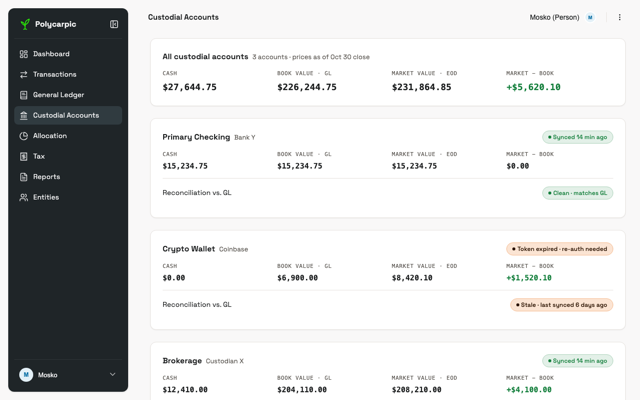
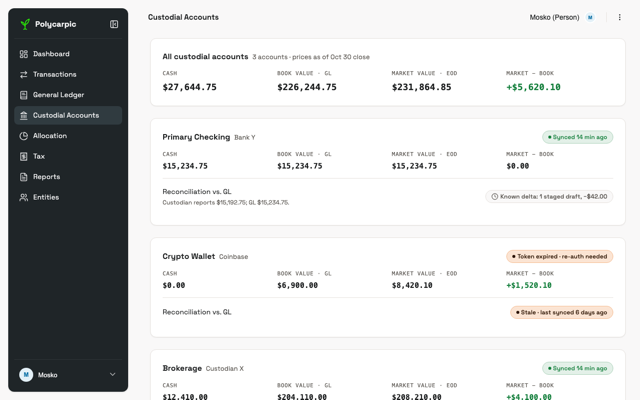
design(flows-refine): tax tier ruling and labels; known unposted delta drawn
Tax tiers: danger = gap ≥ 0 and due within 14 days or passed; caution =
gap ≥ 0 and due more than 14 days out; on track = gap < 0 (flow 5.4,
flows/tax-liability-flow.md, spec status tiers, tax.html note). Edge
labels use ≥ and words, since Mermaid strips '>' from edge labels.
Custodial Accounts draws the known-unposted-delta state on Primary
Checking: a muted Known delta badge linking to Pending, the custodian's
figure on the reconciliation line; the Cash figure is the GL's.

Claude-Session: https://claude.ai/code/session_01ShccjGpngWMgusX4atqtRi

diff --git a/docs/DESIGN/styled-screens/custodial-accounts.html b/docs/DESIGN/styled-screens/custodial-accounts.html
@@ -8,7 +8,7 @@
 <link rel="stylesheet" href="../screen.css">
 </head>
 <body>
-<!-- Custodial Accounts. A totals card, then one card per physical account. Every card shows the same three figures side by side: cash balance, book value (the GL's cost basis, cash included) and market value (cash + positions at EOD prices), then market minus book; the totals card sums them across accounts. Then link health (caution tier for an expired or stale link that still has cached data), reconciliation vs. GL, and for a brokerage the lots sub-card (Collapsible, one security pulled down). Sync pulls balances AND positions. The provider-item Dialog (More > New provider item) is shown open below the cards as the reference, same convention as the journal-entry modal. Viewers see no Sync / New / token-refresh / unlink actions. -->
+<!-- Custodial Accounts. A totals card, then one card per physical account. Every card shows the same three figures side by side: cash balance, book value (the GL's cost basis, cash included) and market value (cash + positions at EOD prices), then market minus book; the totals card sums them across accounts. Then link health (caution tier for an expired or stale link that still has cached data), reconciliation vs. GL (Primary Checking shows a known unposted delta: the custodian is $42.00 below the GL by exactly one staged draft, a muted badge linking to Pending, not a break), and for a brokerage the lots sub-card (Collapsible, one security pulled down). Sync pulls balances AND positions. The provider-item Dialog (More > New provider item) is shown open below the cards as the reference, same convention as the journal-entry modal. Viewers see no Sync / New / token-refresh / unlink actions. -->
 <div class="shell">
   <aside class="sidebar" id="app-sidebar">
     <!-- Brand row (pass 12, Gemini pattern): expanded = logo + wordmark,
@@ -80,7 +80,7 @@
         <div class="custodial-fig"><span class="eyebrow">Market − book</span><span class="custodial-fig-value">$0.00</span></div>
       </div>
       <div class="custodial-recon">
-        <div class="kv-row"><span>Reconciliation vs. GL</span><span class="kv-value"><span class="badge badge-positive-soft"><span class="status-dot"></span>Clean · matches GL</span></span></div>
+        <div class="kv-row"><span class="kv-label">Reconciliation vs. GL<span class="kv-help">Custodian reports $15,192.75; GL $15,234.75.</span></span><span class="kv-value"><a class="badge badge-muted" href="transactions.html" title="Open the staged draft in Pending"><span class="icon icon-sm"><svg viewBox="0 0 24 24" fill="none" stroke="currentColor" stroke-width="2" stroke-linecap="round" stroke-linejoin="round" aria-hidden="true"><circle cx="12" cy="12" r="10"/><polyline points="12 6 12 12 16 14"/></svg></span>Known delta: 1 staged draft, −$42.00</a></span></div>
       </div>
     </div>
     <div class="card">

diff --git a/docs/DESIGN/index.html b/docs/DESIGN/index.html
@@ -297,8 +297,8 @@ flowchart TD
   pending --> display[Display gauge + figures]
   gap --> tier{Gap status}
   tier -- "gap &lt; 0" --> onTrack[Tier: Normal / on track\nprepaid ahead of safe harbor\npositive token]
-  tier -- "gap >= 0, due date > 14d out" --> caution[Tier: Caution\nwarning token]
-  tier -- "gap >= 0, due date passed" --> danger[Tier: Danger / overdue\ndestructive token]
+  tier -- "gap ≥ 0, due more than 14 days out" --> caution[Tier: Caution\nwarning token]
+  tier -- "gap ≥ 0, due within 14 days or passed" --> danger[Tier: Danger\ndestructive token]
   onTrack --> display
   caution --> display
   danger --> display
@@ -312,7 +312,7 @@ flowchart TD
   </pre>
   <ul>
     <li><strong>Reached from the sidebar or the Dashboard card;</strong> both land on the same per-entity view with a jurisdiction selector.</li>
-    <li><strong>Tiers:</strong> on track when <code>gap &lt; 0</code> (prepaid ahead of the safe-harbor requirement); caution when <code>gap &gt;= 0</code> and the due date is more than 14 days out; danger when <code>gap &gt;= 0</code> and the due date has passed. They reuse the product-wide status vocabulary — design-system-spec.md § Status tiers.</li>
+    <li><strong>Tiers:</strong> on track when <code>gap &lt; 0</code> (prepaid ahead of the safe-harbor requirement); caution when <code>gap ≥ 0</code> and the due date is more than 14 days out; danger when <code>gap ≥ 0</code> and the due date is within 14 days or has passed. They reuse the product-wide status vocabulary — design-system-spec.md § Status tiers.</li>
     <li><strong>Gap = 0 is not on track.</strong> It means exactly at the safe-harbor line, with nothing in hand beyond the requirement, so it takes the caution or danger tier by due date.</li>
     <li><strong>Two figures,</strong> both measured against the custodial account's balance but not against each other: <strong>Pending liability = annualized tax to date − custodial prepaid balance</strong> (what you would owe net of prepayments, if filed today); <strong>Gap = required payments to date (safe harbor) − custodial balance</strong> ("are you current with the authority"). Gap is never <code>required − pending</code>.</li>
     <li><strong>v1 never moves money.</strong> There is no pay button: the user pays the tax authority at their own bank; the payment lands as an imported transaction with no counterparty; the user posts the GL entry, debiting the custodial tax-authority account (a prepaid-tax asset). Copy says "post your payment" or "record your payment", never "pay" or "transfer".</li>

diff --git a/docs/DESIGN/styled-screens/tax.html b/docs/DESIGN/styled-screens/tax.html
@@ -8,7 +8,7 @@
 <link rel="stylesheet" href="../screen.css">
 </head>
 <body>
-<!-- Tax. Per entity, per jurisdiction (tabs are data-driven: one per jurisdiction the entity files in). Two figures that are never combined: Pending liability = annualized tax to date - custodial prepaid balance (what you would owe, net of prepayments, if you filed today); Gap = required safe-harbor payments to date - custodial prepaid balance (are you current with the authority). The tier follows the gap: on track gap < 0; caution gap >= 0 with the due date more than 14 days out; danger gap >= 0 with the due date passed (flow 5.4). Shown: Federal 2026 on Nov 2, 2026, with the Sep 15 installment $200 short, so the danger tier. The prepaid balance is the GL account Prepaid Tax - Federal ($3,100.00, same as the General Ledger tree) and links to its register. The app never moves money: the action is "Post your payment" (from the imported bank transaction on Transactions), never "Pay". Reached from the sidebar Tax item or the Dashboard tax card. -->
+<!-- Tax. Per entity, per jurisdiction (tabs are data-driven: one per jurisdiction the entity files in). Two figures that are never combined: Pending liability = annualized tax to date - custodial prepaid balance (what you would owe, net of prepayments, if you filed today); Gap = required safe-harbor payments to date - custodial prepaid balance (are you current with the authority). The tier follows the gap: on track gap < 0; caution gap >= 0 with the due date more than 14 days out; danger gap >= 0 with the due date within 14 days or passed (flow 5.4). Shown: Federal 2026 on Nov 2, 2026, with the Sep 15 installment $200 short, so the danger tier. The prepaid balance is the GL account Prepaid Tax - Federal ($3,100.00, same as the General Ledger tree) and links to its register. The app never moves money: the action is "Post your payment" (from the imported bank transaction on Transactions), never "Pay". Reached from the sidebar Tax item or the Dashboard tax card. -->
 <div class="shell">
   <aside class="sidebar" id="app-sidebar">
     <!-- Brand row (pass 12, Gemini pattern): expanded = logo + wordmark,

diff --git a/docs/DESIGN/screen.css b/docs/DESIGN/screen.css
@@ -1612,3 +1612,9 @@ table.data-table tr.opening td { color: var(--muted-foreground); font-style: ita
 /* A card eyebrow that links to the card's own screen (Dashboard tax card -> Tax). */
 .eyebrow.card-link { display: inline-flex; gap: 6px; color: inherit; text-decoration: none; }
 .eyebrow.card-link:hover, .eyebrow.card-link:focus-visible { color: var(--foreground); text-decoration: underline; }
+
+/* Known unposted delta (Custodial Accounts reconciliation): information,
+   not a status tier. Muted fill, clock icon, and it is a link to the
+   staged drafts in Pending. */
+.badge-muted { background: var(--muted); color: var(--muted-foreground); border-color: var(--border); text-decoration: none; }
+a.badge-muted:hover, a.badge-muted:focus-visible { color: var(--foreground); }

diff --git a/docs/DESIGN/design-system-spec.md b/docs/DESIGN/design-system-spec.md
@@ -357,8 +357,8 @@ There is no "Securities" item (lots live in Custodial Accounts' sub-card; alloca
 | Tier | Token | Product examples |
 |---|---|---|
 | Normal / on track | `--positive` or plain `--foreground` | Safe-harbor gap < 0 (prepaid ahead of the requirement); reconciliation clean; import fully matched |
-| Caution | `--warning` | Safe-harbor gap ≥ 0, due date >14 days out (gap = 0 is exactly at the safe-harbor line, nothing in hand beyond it, so never on track); an unmatched transfer leg aged inside the Cash-in-Transit exceptions window; a stale/expired provider link that still has cached data to show |
-| Danger / overdue | `--destructive` | Safe-harbor gap ≥ 0 with the due date passed; exceptions-threshold breach; reconciliation break |
+| Caution | `--warning` | Safe-harbor gap ≥ 0, due date more than 14 days out (gap = 0 is exactly at the safe-harbor line, nothing in hand beyond it, so never on track); an unmatched transfer leg aged inside the Cash-in-Transit exceptions window; a stale/expired provider link that still has cached data to show |
+| Danger / overdue | `--destructive` | Safe-harbor gap ≥ 0 with the due date within 14 days or passed; exceptions-threshold breach; reconciliation break |
 
 ### Entity, account, and category badges — label + icon, not per-category hue
 
@@ -459,14 +459,14 @@ A nested treemap of the chart of accounts, prototyped as a card above the tree o
 
 | Figure | What it is | Source |
 |---|---|---|
-| **Cash** | The account's cash balance (a brokerage's sweep cash; the whole balance of a bank account) | Custodian-reported, reconciled to the GL |
+| **Cash** | The account's cash balance (a brokerage's sweep cash; the whole balance of a bank account) | The GL's cash balance; when the custodian reports a different figure, the reconciliation line shows it |
 | **Book value · GL** | Cost basis of everything in the account, cash included — the GL's own balance for the mirrored account | General Ledger (lots at cost) |
 | **Market value · EOD** | Cash plus every position at the last end-of-day price | Lots × daily EOD price feed |
 | **Market − book** | Unrealized gain or loss, signed and coloured per § Delta coloring | Derived |
 
 A cash-only account shows the same row with the three figures equal and a `$0.00` delta: the row keeps one shape on every card, so accounts scan as a column. A **totals card** above the account cards sums the same four figures across every custodial account for the entity, with the price date ("prices as of <date> close"). Market − book on an account equals its lots sub-card's total unrealized gain; the two figures must agree.
 
-**Per-account card:** institution name, link-health badge, the three-figure row, and a reconciliation line against the GL (clean / stale / break, per the status tiers — the danger tier surfaces on the Dashboard too, per flow 5.5). A difference explained exactly by the account's staged drafts is a **known unposted delta**, not a break: the line names the delta and links to those drafts in Pending.
+**Per-account card:** institution name, link-health badge, the three-figure row, and a reconciliation line against the GL (clean / stale / break, per the status tiers — the danger tier surfaces on the Dashboard too, per flow 5.5). A difference explained exactly by the account's staged drafts is a **known unposted delta**, not a break: the line shows the custodian's figure and a muted `Known delta` badge (clock icon, `--muted` fill, no status hue) naming the draft count and amount, linking to those drafts in Pending on Transactions.
 
 **The lots sub-card (only on accounts that hold securities):**
 - One row per security, collapsed by default — a pull-down (chevron) reveals its individual lots.

diff --git a/docs/DESIGN/flows/tax-liability-flow.md b/docs/DESIGN/flows/tax-liability-flow.md
@@ -14,8 +14,8 @@ flowchart TD
   pending --> display[Display gauge + figures]
   gap --> tier{Gap status}
   tier -- "gap < 0" --> onTrack[Tier: Normal / on track\nprepaid ahead of safe harbor\npositive token]
-  tier -- "gap >= 0, due date > 14d out" --> caution[Tier: Caution\nwarning token]
-  tier -- "gap >= 0, due date passed" --> danger[Tier: Danger / overdue\ndestructive token]
+  tier -- "gap ≥ 0, due more than 14 days out" --> caution[Tier: Caution\nwarning token]
+  tier -- "gap ≥ 0, due within 14 days or passed" --> danger[Tier: Danger\ndestructive token]
   onTrack --> display
   caution --> display
   danger --> display
@@ -30,7 +30,7 @@ flowchart TD
 
 **Notes**
 - **Reached from the sidebar or the Dashboard card;** both land on the same per-entity view with a jurisdiction selector.
-- **Tiers:** on track when `gap < 0` (prepaid ahead of the safe-harbor requirement); caution when `gap >= 0` and the due date is more than 14 days out; danger when `gap >= 0` and the due date has passed. They reuse the product-wide status vocabulary — design-system-spec.md § Status tiers.
+- **Tiers:** on track when `gap < 0` (prepaid ahead of the safe-harbor requirement); caution when `gap ≥ 0` and the due date is more than 14 days out; danger when `gap ≥ 0` and the due date is within 14 days or has passed. They reuse the product-wide status vocabulary — design-system-spec.md § Status tiers.
 - **Gap = 0 is not on track.** It means exactly at the safe-harbor line, with nothing in hand beyond the requirement, so it takes the caution or danger tier by due date.
 - **Two figures,** both measured against the custodial account's balance but not against each other: **Pending liability = annualized tax to date − custodial prepaid balance** (what you would owe net of prepayments, if filed today); **Gap = required payments to date (safe harbor) − custodial balance** ("are you current with the authority"). Gap is never `required − pending`.
 - **v1 never moves money.** There is no pay button: the user pays the tax authority at their own bank; the payment lands as an imported transaction with no counterparty; the user posts the GL entry, debiting the custodial tax-authority account (a prepaid-tax asset). Copy says "post your payment" or "record your payment", never "pay" or "transfer".
